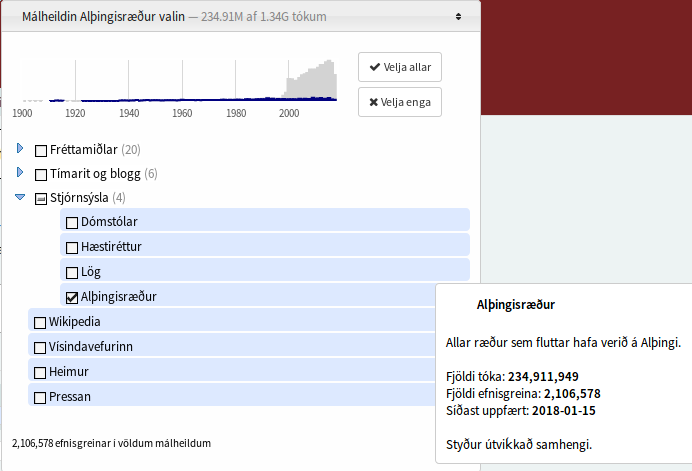
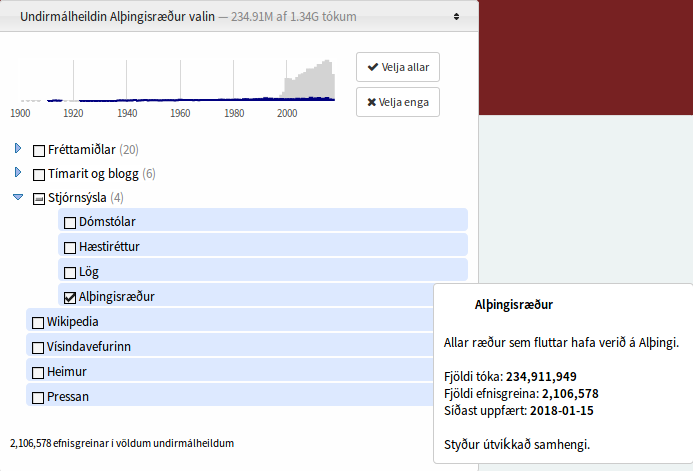
Improved user manual

diff --git a/app/modes/common.js b/app/modes/common.js
@@ -53,6 +53,16 @@ var defaultContext = {
     "1 paragraph": "1 paragraph"
 };
 
+var fornritContext = {
+    "5 words": "5 words",
+    "7 words": "7 words",
+    "10 words": "10 words",
+    "15 words": "15 words",
+    "20 words": "20 words",
+    "1 sentence": "1 sentence",
+    "1 paragraph": "1 paragraph"
+};
+
 var spContext = {
     "1 sentence": "1 sentence",
     "1 paragraph": "1 paragraph"
@@ -504,3 +514,262 @@ var icelandicAttrs = {
         }
     }
 };
+
+var fornritAttrs = {
+    pos: {
+        label: "pos",
+        translationKey: "pos_",
+        extendedTemplate: selectType.extendedTemplate,
+        extendedController: selectType.extendedController,
+        opts: liteOptions,
+        order: 1,
+        dataset: {
+            "l": "lo",
+            "n": "no",
+            "c": "st",
+            "s": "so",
+            "r": "fs",
+            "t": "to",
+            "e": "eo",
+            "a": "ao",
+            "f": "fn",
+            "g": "gr",
+            "p": "grm",
+            "u": "uh",
+            "v": "vf",
+            "h": "nhm",
+            "x": "xx"
+        }
+    },
+    lemma: {
+        label: "lemma",
+        order: 2
+    },
+    pers: {
+        label:"pers",
+        translationKey: "pers_",
+        extendedTemplate: selectType.extendedTemplate,
+        extendedController: selectType.extendedController,
+        opts: liteOptions,
+        order: 3,
+        dataset: {
+            "1": "1pers",
+            "2": "2pers",
+            "3": "3pers"
+        }
+    },
+    kyn: {
+        label:"kyn",
+        translationKey: "kyn_",
+        extendedTemplate: selectType.extendedTemplate,
+        extendedController: selectType.extendedController,
+        opts: liteOptions,
+        order: 4,
+        dataset: {
+            "k": "kk",
+            "v": "kvk",
+            "h": "hvk"
+        }
+    },
+    tala: {
+        label:"tala",
+        translationKey: "tala_",
+        extendedTemplate: selectType.extendedTemplate,
+        extendedController: selectType.extendedController,
+        opts: liteOptions,
+        order: 5,
+        dataset: {
+            "e": "et",
+            "f": "ft"
+        }
+    },
+    fall: {
+        label:"fall",
+        translationKey: "fall_",
+        extendedTemplate: selectType.extendedTemplate,
+        extendedController: selectType.extendedController,
+        opts: liteOptions,
+        order: 6,
+        dataset: {
+            "n": "nf",
+            "o": "þf",
+            "þ": "þgf",
+            "e": "ef"
+        }
+    },
+    lostig: {
+        label:"lostig",
+        translationKey: "lostig_",
+        extendedTemplate: selectType.extendedTemplate,
+        extendedController: selectType.extendedController,
+        opts: liteOptions,
+        order: 7,
+        dataset: {
+            "f": "fs",
+            "m": "ms",
+            "e": "es"
+        }
+    },
+    mynd: {
+        label:"mynd",
+        translationKey: "mynd_",
+        extendedTemplate: selectType.extendedTemplate,
+        extendedController: selectType.extendedController,
+        opts: liteOptions,
+        order: 8,
+        dataset: {
+            "g": "gm",
+            "þ": "þm",
+            "m": "mm"
+        }
+    },
+    hattur: {
+        label:"hattur",
+        translationKey: "hattur_",
+        extendedTemplate: selectType.extendedTemplate,
+        extendedController: selectType.extendedController,
+        opts: liteOptions,
+        order: 9,
+        dataset: {
+            "n": "nh",
+            "v": "vh",
+            "s": "sb",
+            "f": "fh",
+            "þ": "lhþ",
+            "l": "lhn",
+            "b": "bh"
+        }
+    },
+    tid: {
+        label:"tid",
+        translationKey: "tid_",
+        extendedTemplate: selectType.extendedTemplate,
+        extendedController: selectType.extendedController,
+        opts: liteOptions,
+        order: 10,
+        dataset: {
+            "n": "nt",
+            "þ": "þt"
+        }
+    },
+    lob: {
+        label:"lob",
+        translationKey: "lob_",
+        extendedTemplate: selectType.extendedTemplate,
+        extendedController: selectType.extendedController,
+        opts: liteOptions,
+        order: 11,
+        dataset: {
+            "s": "sb",
+            "v": "vb",
+            "o": "ob"
+        }
+    },
+    fsfall: {
+        label:"fsfall",
+        translationKey: "fsfall_",
+        extendedTemplate: selectType.extendedTemplate,
+        extendedController: selectType.extendedController,
+        opts: liteOptions,
+        order: 12,
+        dataset: {
+            "o": "þf",
+            "þ": "þgf",
+            "e": "ef"
+        }
+    },
+    tob: {
+        label:"tob",
+        translationKey: "tob_",
+        extendedTemplate: selectType.extendedTemplate,
+        extendedController: selectType.extendedController,
+        opts: liteOptions,
+        order: 13,
+        dataset: {
+            "b": "bt",
+            "ó": "ót"
+        }
+    },
+    fnf: {
+        label:"fnf",
+        translationKey: "fnf_",
+        extendedTemplate: selectType.extendedTemplate,
+        extendedController: selectType.extendedController,
+        opts: liteOptions,
+        order: 15,
+        dataset: {
+            "e": "efn",
+            "a": "áfn",
+            "b": "óáfn",
+            "o": "ófn",
+            "p": "pfn",
+            "s": "sfn",
+            "t": "tfn"
+        }
+    },
+    tof: {
+        label:"ft",
+        translationKey: "ft_",
+        extendedTemplate: selectType.extendedTemplate,
+        extendedController: selectType.extendedController,
+        opts: liteOptions,
+        order: 16,
+        dataset: {
+            "f": "ft"
+        }
+    },
+    tt: {
+        label:"tt",
+        translationKey: "tt_",
+        extendedTemplate: selectType.extendedTemplate,
+        extendedController: selectType.extendedController,
+        opts: liteOptions,
+        order: 17,
+        dataset: {
+            "t": "tt"
+        }
+    },
+    sernafn: {
+        label:"sernafn",
+        translationKey: "sernafn_",
+        extendedTemplate: selectType.extendedTemplate,
+        extendedController: selectType.extendedController,
+        opts: liteOptions,
+        order: 18,
+        dataset: {
+            "sérnafn": "sn"
+        }
+    },
+    greinir: {
+        label:"greinir",
+        translationKey: "greinir_",
+        extendedTemplate: selectType.extendedTemplate,
+        extendedController: selectType.extendedController,
+        opts: liteOptions,
+        order: 19,
+        dataset: {
+            "með-greini": "mg"
+        }
+    }
+};
+
+
+var fornritSattrs = {
+    text_utgafuar: {
+        label: "text_release_year",
+        order: 10
+    },
+    text_ritstjorar: {
+        label: "text_editors",
+        type: "set",
+        order: 40
+    },
+    text_utgefandi: {
+        label: "text_publisher",
+        order: 30
+    },
+    text_rit: {
+        label: "text_rit",
+        order: 20
+    }
+}
